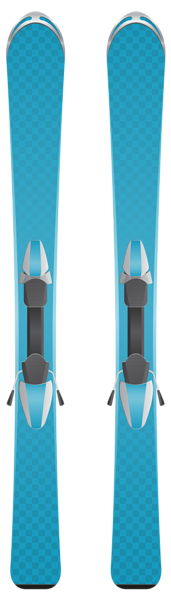
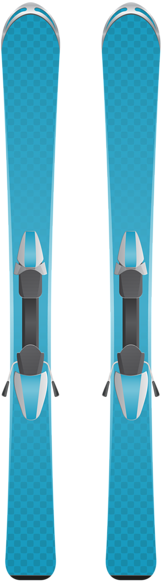
added track in snow behind skis

Changed region(s): [[0.6211, 0.0, 1.0, 1.0], [0.0, 0.0, 0.4037, 1.0]]

diff --git a/src/game.js b/src/game.js
@@ -35,15 +35,16 @@ class SkiSlope extends Phaser.Scene {
     this.edgeSnowParticles = this.add.particles('snowParticle');
     this.edgeSnowEmitter = this.edgeSnowParticles.createEmitter({
       radial: false,
-      lifespan: 500,
+      lifespan: 400,
       blendMode: 'ADD',
       on: false,
     });
     this.previousAngularVelocity = 0;
     this.previousDirection = null;
+    this.previousBackCorner = null;
 
     // CAMERA
-    this.cameras.main.setBackgroundColor(0xdddddd);
+    this.cameras.main.setBackgroundColor(0xf0f0f0);
     this.cameras.main.startFollow(this.skiPlayer);
 
     // CONTROLS
@@ -151,16 +152,15 @@ class SkiSlope extends Phaser.Scene {
     }
 
     // EMIT SNOW PARTICLES
-    const snowEmissionSpeed = skisPerpendicularSpeed;
+    const snowEmissionSpeed = skisPerpendicularSpeed * 1.1;
     const scrapeStrength = Math.abs(skisPerpendicularAcceleration);
     const isScraping = scrapeStrength >= 100;
     const isEmitterOn = this.edgeSnowEmitter.on;
-    if (isEmitterOn && !isScraping) {
-      this.edgeSnowEmitter.stop();
-    } else if (!isEmitterOn && isScraping) {
-      this.edgeSnowEmitter.start();
-    }
     if (isScraping) {
+      if (!isEmitterOn) {
+        this.edgeSnowEmitter.start();
+      }
+      // set the angle and speed of the snow emissions
       const isScrapeEdgeLeft = skisPerpendicularAngle === skisPerpendicularLeft;
       const skisBackCorner = isScrapeEdgeLeft
         ? this.skiPlayer.getBottomLeft()
@@ -180,6 +180,7 @@ class SkiSlope extends Phaser.Scene {
       });
       this.edgeSnowEmitter.setSpeed(snowEmissionSpeed);
       this.edgeSnowEmitter.setAngle(-90);
+      // set the frequency and size of the snow emissions
       const roundedScrapeStrength = Math.floor(scrapeStrength / 200) * 200;
       const ceilingScrapeStrength = 1000;
       const slowestEmitterFrequency = 50;
@@ -204,6 +205,35 @@ class SkiSlope extends Phaser.Scene {
         this.edgeSnowEmitter.setFrequency(newEmitterFrequency);
         this.edgeSnowEmitter.setScale({ start: newEmitterScale, end: 0 });
       }
+      // leave a trail in the snow
+      if (this.previousBackCorner) {
+        const graphics = this.add.graphics();
+        graphics.setDefaultStyles({
+          lineStyle: { width: 3, color: 0xcccccc, alpha: 1 },
+          fillStyle: { color: 0xcccccc, alpha: 1 },
+        });
+        const line = graphics.lineBetween(
+          this.previousBackCorner.x,
+          this.previousBackCorner.y,
+          skisBackCorner.x,
+          skisBackCorner.y
+        );
+        this.add.tween({
+          targets: [line],
+          duration: 1000,
+          alpha: 0,
+          onComplete() {
+            line.destroy();
+            graphics.destroy();
+          },
+        });
+      }
+      this.previousBackCorner = skisBackCorner;
+    } else {
+      if (isEmitterOn) {
+        this.edgeSnowEmitter.stop();
+      }
+      this.previousBackCorner = null;
     }
   }
 
